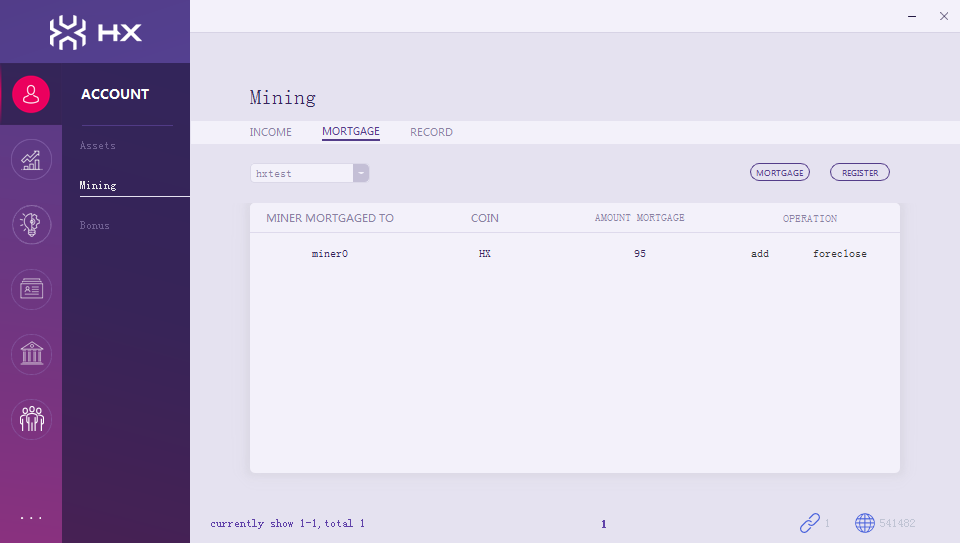
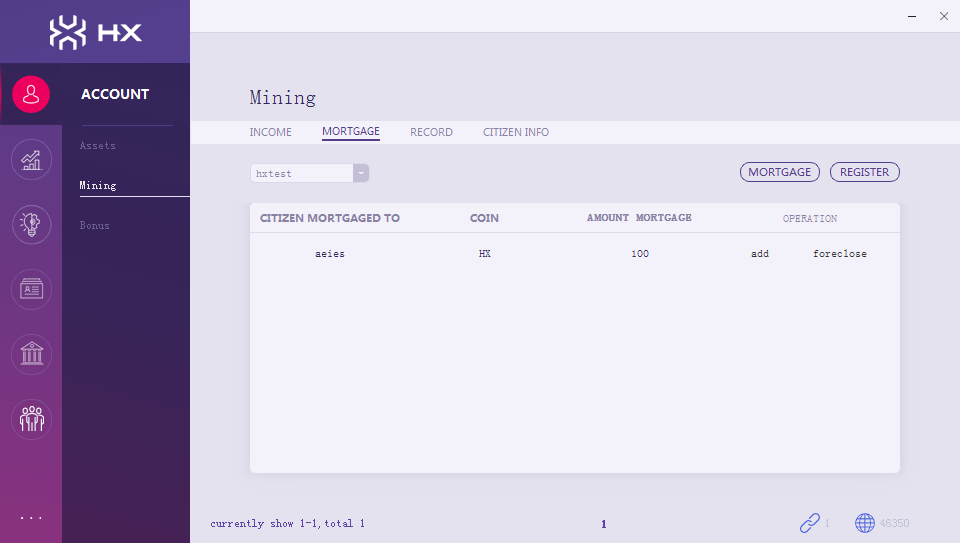
asset page modify

diff --git a/src/i18n/zh/site/wallets/hxindicator-using-account/index.html b/src/i18n/zh/site/wallets/hxindicator-using-account/index.html
@@ -1464,17 +1464,25 @@
                 
                 <h1 id="hyperexchange-indicator">HyperExchange Indicator使用指导<a class="headerlink" href="#hyperexchange-indicator" title="Permanent link">&para;</a></h1>
 <p>最新版本 v1.0.7.</p>
-<p>本指南假设您已使用<a href="../hxindicator-setup/">HyperExchange Indicator设置</a>设置了HyperExchange钱包。下面将详细介绍一下功能：<code>Account/Contract/Advance/Contacts/Senator/Citizen</code>.</p>
+<p>本指南假设您已使用<a href="../hxindicator-setup/">HyperExchange Indicator设置</a>设置了HyperExchange钱包。下面将详细介绍以下功能：<code>Account/Contract/Advance/Contacts/Senator/Citizen</code>.</p>
 <hr />
 <h2 id="assets">Assets<a class="headerlink" href="#assets" title="Permanent link">&para;</a></h2>
 <p>登录资产页面后，您可以查看钱包帐户里的所有资产。</p>
 <p><img alt="Account Tab" src="../../img/wallets/hxindicator/asset-page.png" /></p>
-<blockquote></blockquote>
+<blockquote>
+<p>新建普通账户</p>
+</blockquote>
 <p>资产页面点击创建账户，输入账户名（会校验本钱包是否有重名以及区块链上注册账户是否重名），</p>
 <p><img alt="NEW Tab" src="../../img/wallets/hxindicator/create-new-account.png" /></p>
 <p>点击确定后要求备份钱包数据文件，选择一个安全的路径，点击备份</p>
 <p><img alt="backup Tab" src="../../img/wallets/hxindicator/backup-wallet.png" /></p>
 <p><img alt="backup Tab1" src="../../img/wallets/hxindicator/backup-wallet1.png" /></p>
+<blockquote>
+<p>成为注册账户，如果用户想挖矿，或者想成为senator、citizen，则必须要注册，在asset页面点击‘注册’；</p>
+</blockquote>
+<p><img alt="Mining Register" src="../../img/wallets/hxindicator/mining-register.png" /></p>
+<p>点击 &ldquo;OK&rdquo;，输入钱包密码，会出现下面的界面：</p>
+<p><img alt="Mining Register" src="../../img/wallets/hxindicator/mining-register1.png" /></p>
 <blockquote>
 <p>导入账户</p>
 </blockquote>
@@ -1538,6 +1546,11 @@
 <p><img alt="Mining Mortgage" src="../../img/wallets/hxindicator/mining-income.png" /></p>
 <p>达到最低领取数量后可以点击&rdquo;get income&rdquo;进行领取。</p>
 <p><img alt="Mining Mortgage" src="../../img/wallets/hxindicator/mining-get-income.png" /></p>
+<blockquote>
+<p>CITIZEN信息</p>
+</blockquote>
+<p>可以看到当前链上所有citizen的相关信息</p>
+<p><img alt="Mining citizen" src="../../img/wallets/hxindicator/mining-citizen.png" /></p>
 <h2 id="_2">分红<a class="headerlink" href="#_2" title="Permanent link">&para;</a></h2>
 <p><img alt="Bonus" src="../../img/wallets/hxindicator/bonus.png" /></p>
 <hr />
